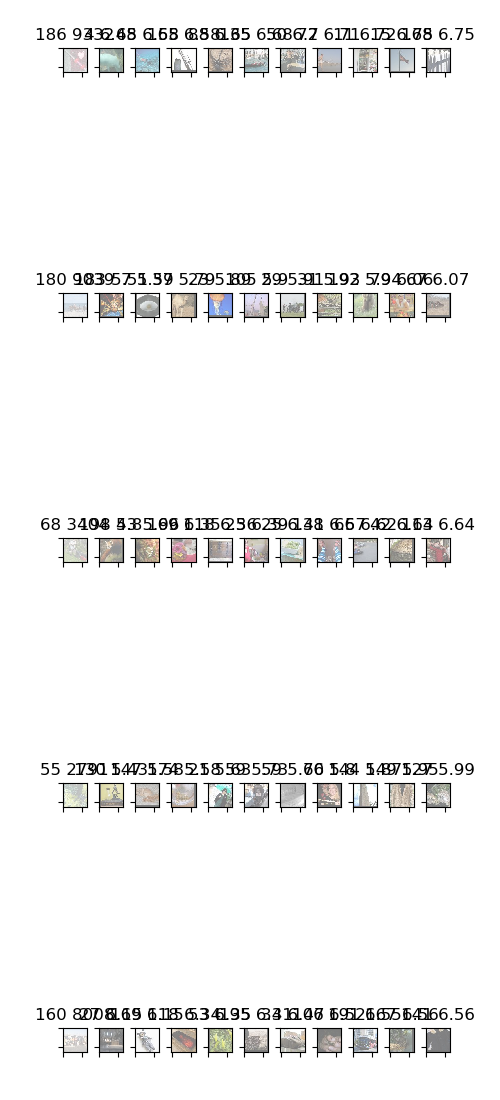
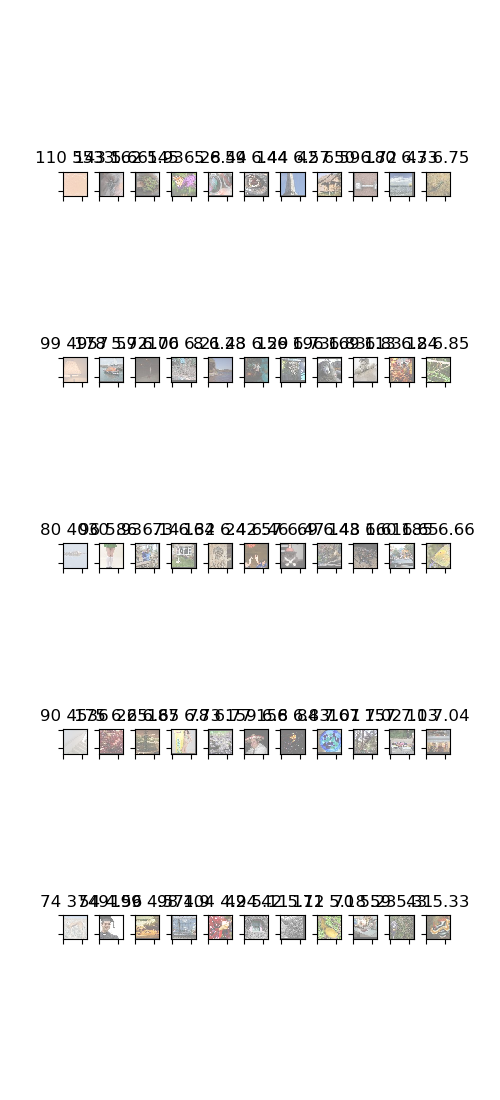
Added images

diff --git a/grapher.py b/grapher.py
@@ -24,7 +24,7 @@ def show_figures(images, title):
     #plt.figure(figsize=(8, 10))
     fig = plt.figure(figsize=(5, 11))
     gs = gridspec.GridSpec(5, 11)
-    gs.update(wspace=0.5, hspace=1.5, top=0.99, bottom=0.01)
+    gs.update(wspace=0.5, hspace=0.8)
     for idx, val in enumerate(images):
         #plt.subplot(11 / 5 + 1, 5, idx + 1)
         #plt.subplots_adjust(top=0.99, bottom=0.01, hspace=1.5, wspace=0.4)

diff --git a/utils.py b/utils.py
@@ -313,7 +313,6 @@ class Data:
             im = im.data.cpu().numpy()
             im += 1.0
             im /= 2.0
-            print(im) 
             im = im.transpose(1, 2, 0) 
             top_images.append((im, im_class, im_idx))
             for idx, d in zip(ind, low_dist):
